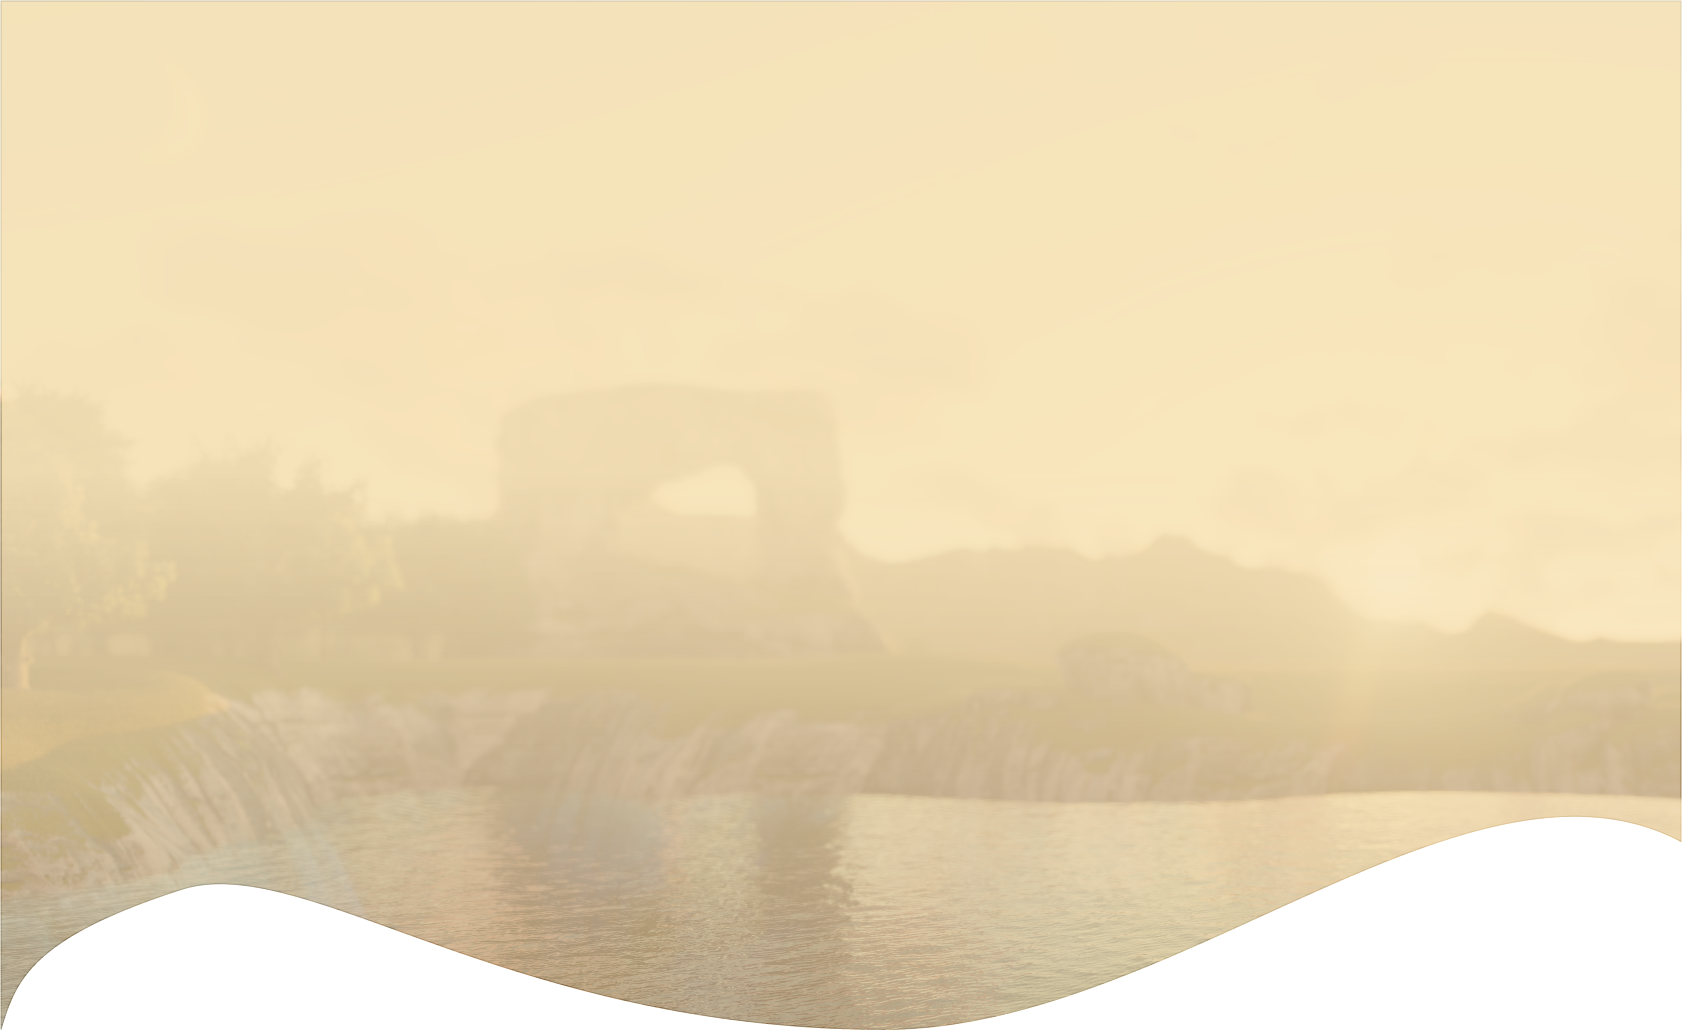
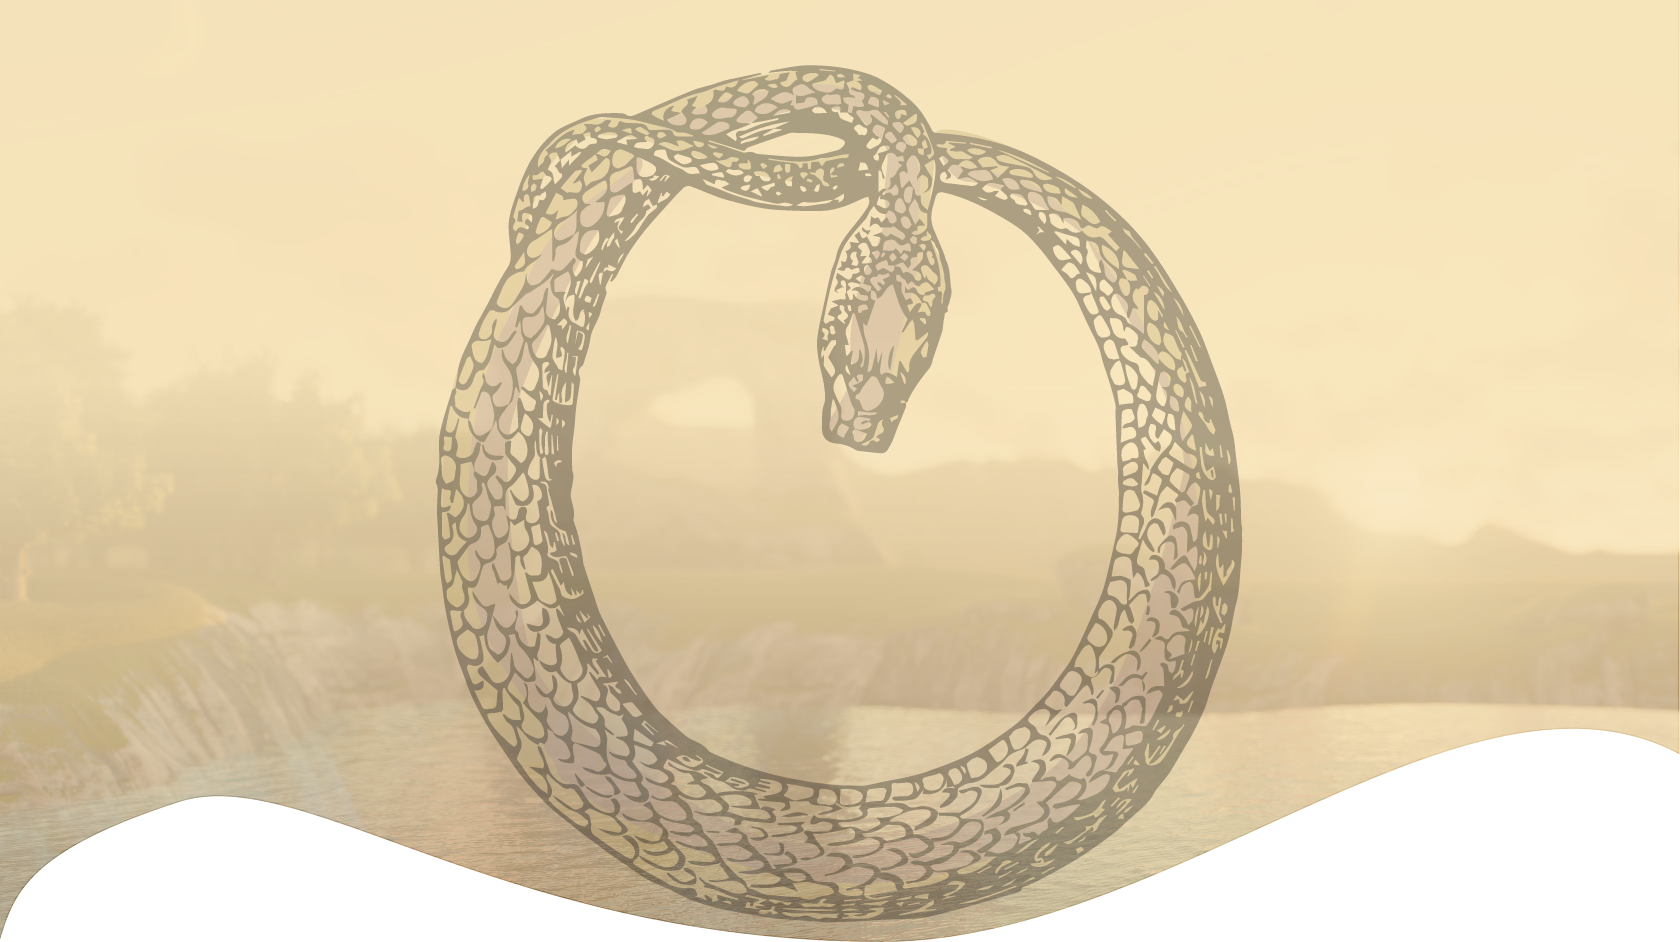
Add Snake Svg

diff --git a/src/shamanic/style.css b/src/shamanic/style.css
@@ -399,7 +399,7 @@ max-width: 100%;
     background-image: url('./img/banner.png') !important;
     padding-top: 200px;
     padding-bottom: 200px;
-    min-height: 900px;
+    min-height: 800px;
     background-size: cover !important;
     
 }

diff --git a/src/shamanic/components/cubeForm/cubeForm.jsx b/src/shamanic/components/cubeForm/cubeForm.jsx
@@ -2,6 +2,7 @@ import React from 'react';
 import { Container,Row,Col } from 'react-bootstrap'
 import ItemForm from '../itemForm/itemForm'
 import Storage from '../storage'
+
 const storage = Storage()
 
 const CubeForm = () => {

diff --git a/src/shamanic/page01.jsx b/src/shamanic/page01.jsx
@@ -19,6 +19,7 @@ class Page02 extends Component {
          
 
         <section  style={ {  background:'#FDF7EB', padding:'50px'  } } id='sectionA'>
+             
              <Header />
 
              <CubeForm   />
